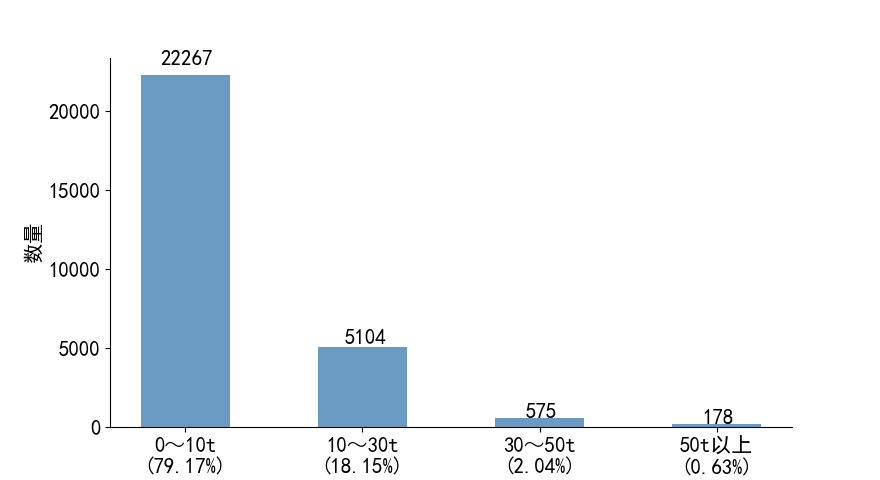
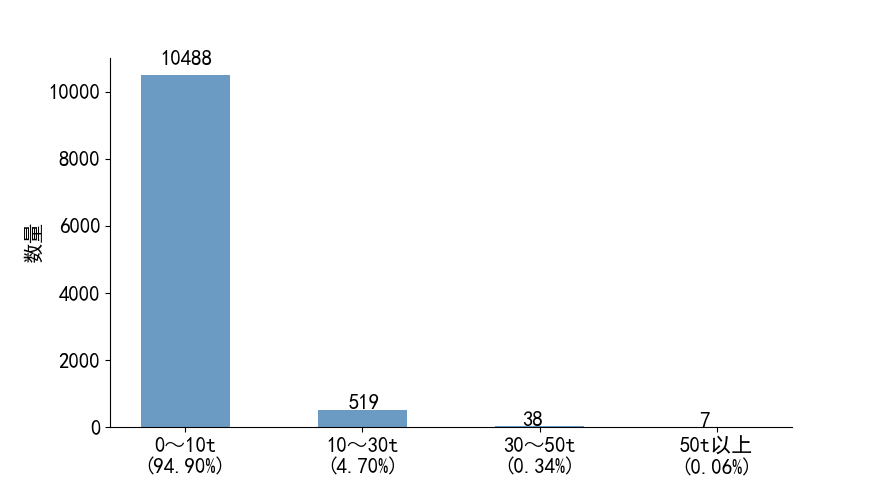
更新大樟桥2.1~2.29数据

diff --git a/HelinConsoleApp/Program.cs b/HelinConsoleApp/Program.cs
@@ -81,8 +81,8 @@ namespace HelinConsoleApp
             var Gross_Load_Dist = new List<int>();
             var Gross_Load_Dist2 = new List<int>();
 
-            var StartDataTime = new DateTime(2020, 1, 1, 0, 0, 0);
-            var FinishDataTime = new DateTime(2020, 2, 1, 0, 0, 0);
+            var StartDataTime = new DateTime(2020, 2, 1, 0, 0, 0);
+            var FinishDataTime = new DateTime(2020, 3, 1, 0, 0, 0);
 
             //Expression<Func<HS_Data_201908, bool>> dataPredicate = x => x.HSData_DT >= StartDataTime && x.HSData_DT <= FinishDataTime;
 
@@ -92,7 +92,7 @@ namespace HelinConsoleApp
                 {
                     #region HS_DataForAnalysis
                     var HS_DataForAnalysis = (
-                        from c in db.HS_Data_202001
+                        from c in db.HS_Data_202002
                         select new MyHS_Data
                         {
                             Acceleration = c.Acceleration,
@@ -135,7 +135,7 @@ namespace HelinConsoleApp
                             Gross_Load = c.Gross_Load
                         }
                         ).Union(
-                        from e in db.HS_Data_202002
+                        from e in db.HS_Data_202003
                         select new MyHS_Data
                         {
                             Acceleration = e.Acceleration,

diff --git a/PythonApplication/PythonApplication.py b/PythonApplication/PythonApplication.py
@@ -88,10 +88,10 @@ def plotItem(plt,itemChosen):
     #不同时间段车辆总数
     #不同速度车辆数及比例
     y_dataList=[
-    [22267,5104,575,178],
-    [22407,2048,1259,4537],
-    [1441,978,1035,4075,7409,7965,7589,8830,8494,5138,3266,2155],
-    [356,14047,35837,8135]
+    [10488,519,38,7],
+    [11704,237,71,418],
+    [182,59,99,1096,3688,3643,3756,3912,3630,2021,821,575],
+    [127,3779,14766,4810]
     ]
 
     ## 包含每个柱子对应值的序列
